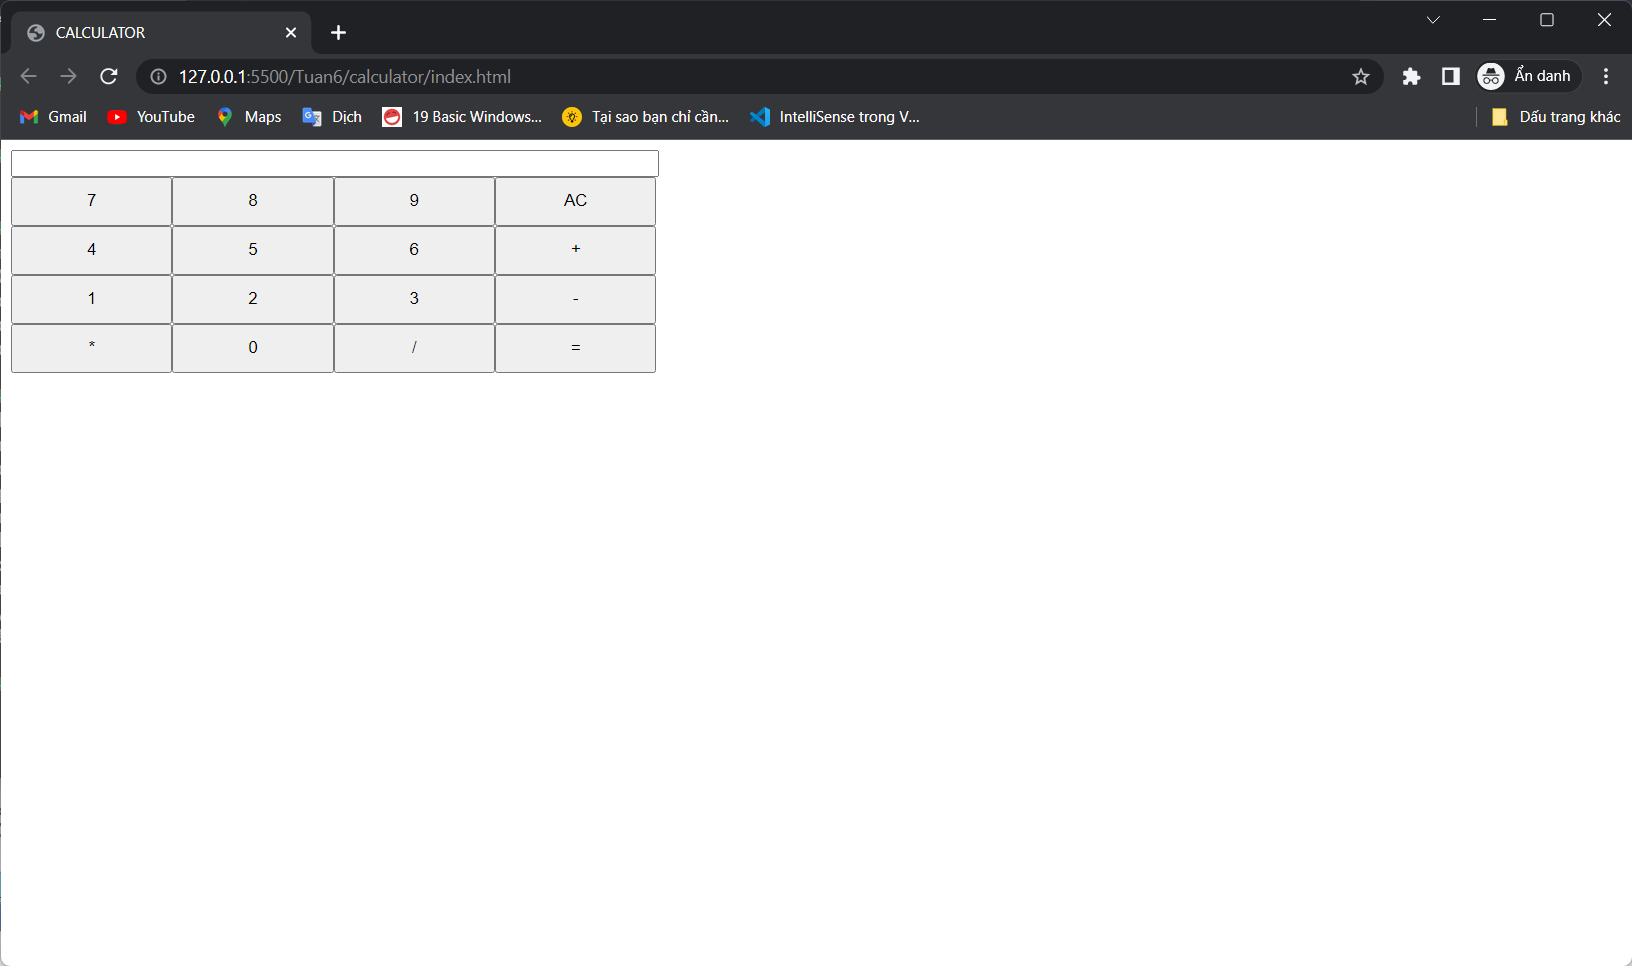
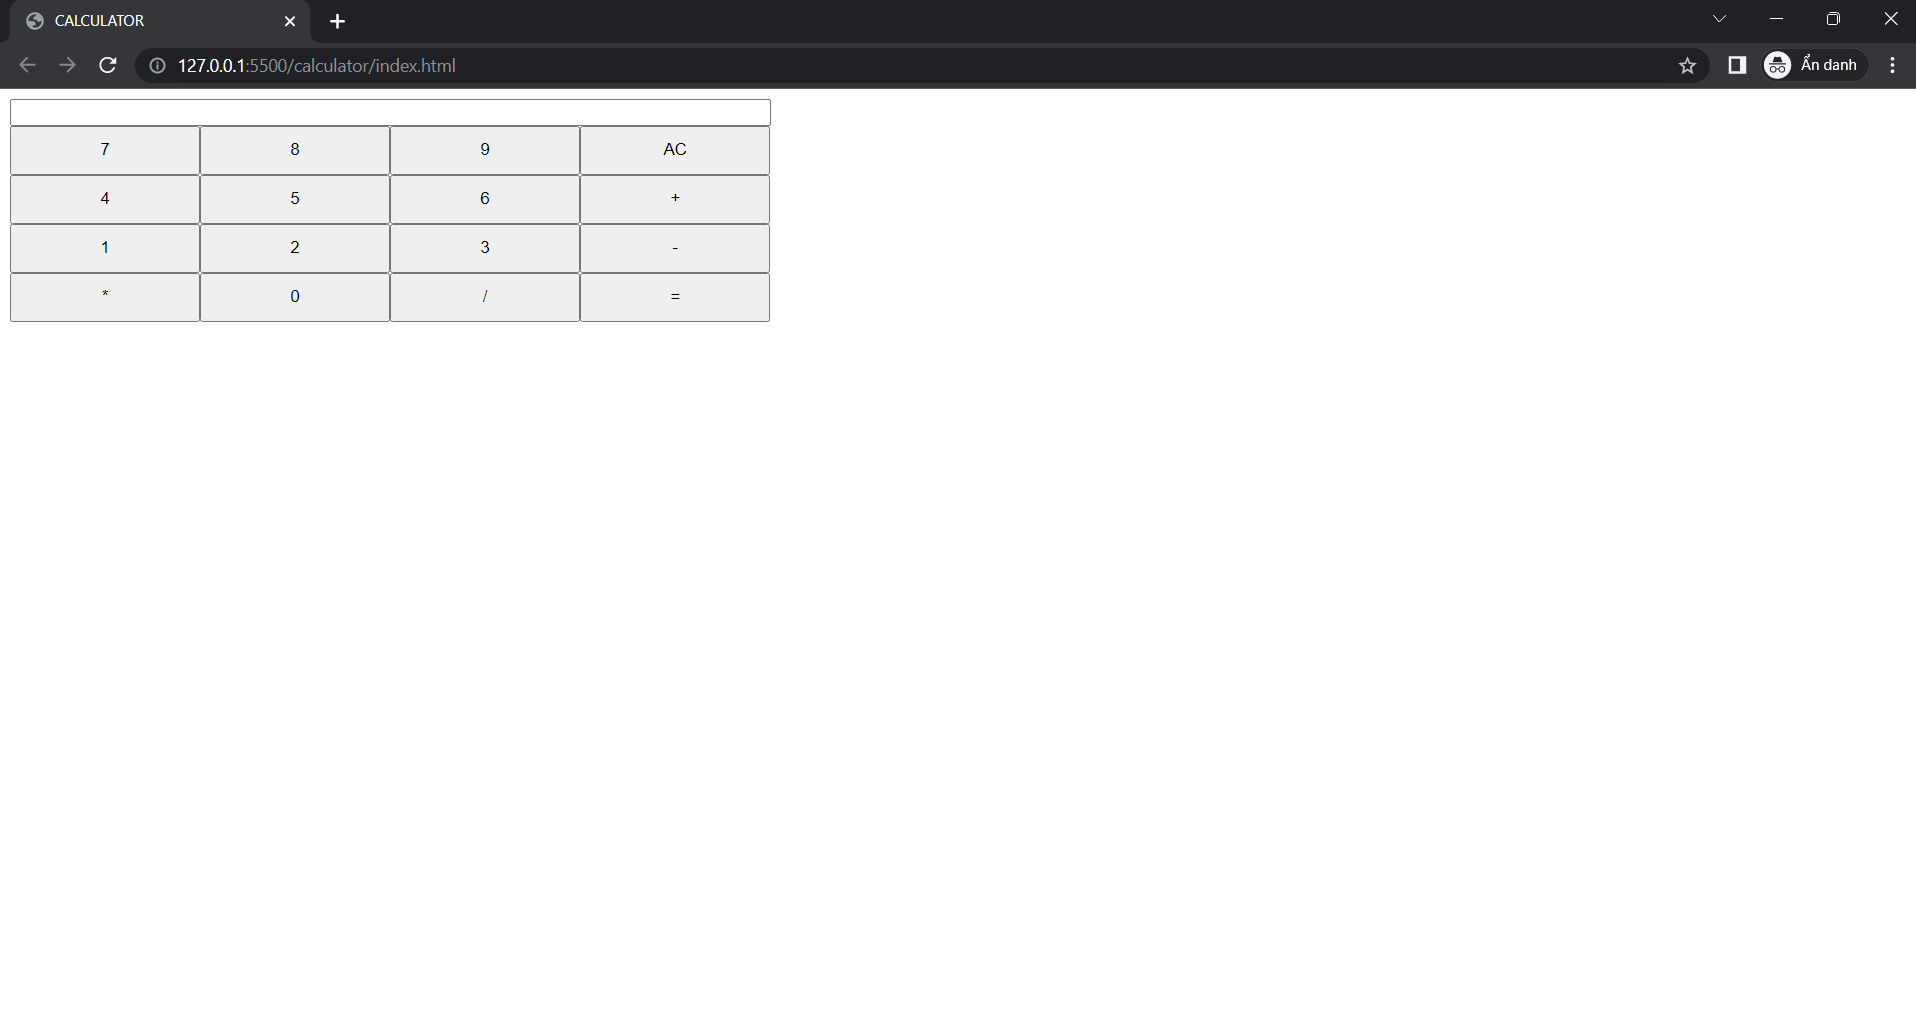
web_tuan6_completeCalculator

Changed region(s): [[0.0, 0.0, 1.0, 0.3416], [0.9375, 0.0, 1.0, 0.0311], [0.375, 0.3106, 0.4062, 0.3416]]

diff --git a/Tuan6/calculator/index.html b/Tuan6/calculator/index.html
@@ -11,6 +11,9 @@
             flex-direction: column;
             width: 40%;
         }
+        .calculator__header-result {
+            
+        }
         .calculator__body {
             display: grid;
             grid-template-columns: repeat(4, 1fr);
@@ -25,32 +28,41 @@
 </head>
 <body>
     <script>
+        function addToInput(value) {
+            document.getElementById('input').value += value;
+        }
+        function clearI() {
+            document.getElementById('input').value = ' ';
+        }
+        function calc() {
+            var input = document.getElementById('input').value;
+            var result = eval(input);
+            document.getElementById('input').value = result;
+        }
+        const result = document.querySelector('.calculator__header-result');
 
     </script>
     <div class="calculator">
         <div class="calculator__header">
-            <div class="calculator__header-result">
-
-            </div>
-            <input type="text" class="text">
+            <input type="text" class="text" id="input">
         </div>
         <div class="calculator__body">
-            <button class="button">7</button>
-            <button class="button">8</button>
-            <button class="button">9</button>
-            <button class="clear button">AC</button>
-            <button class="button">4</button>
-            <button class="button">5</button>
-            <button class="button">6</button>
-            <button class="add button">+</button>
-            <button class="button">1</button>
-            <button class="button">2</button>
-            <button class="button">3</button>
-            <button class="substract button">-</button>
-            <button class="mul button">*</button>
-            <button class="button">0</button>
-            <button class="divide button">/</button>
-            <button class="cal button">=</button>
+            <button class="button" onclick="addToInput('7')">7</button>
+            <button class="button" onclick="addToInput('8')">8</button>
+            <button class="button" onclick="addToInput('9')">9</button>
+            <button class="clear button" onclick="clearI()">AC</button>
+            <button class="button" onclick="addToInput('4')">4</button>
+            <button class="button" onclick="addToInput('5')">5</button>
+            <button class="button" onclick="addToInput('6')">6</button>
+            <button class="add button" onclick="addToInput('+')">+</button>
+            <button class="button" onclick="addToInput('1')">1</button>
+            <button class="button" onclick="addToInput('2')">2</button>
+            <button class="button" onclick="addToInput('3')">3</button>
+            <button class="substract button" onclick="addToInput('-')">-</button>
+            <button class="mul button" onclick="addToInput('*')">*</button>
+            <button class="button" onclick="addToInput('0')">0</button>
+            <button class="divide button" onclick="addToInput('/')">/</button>
+            <button class="cal button" onclick="calc()">=</button>
         </div>
     </div>
 </body>
